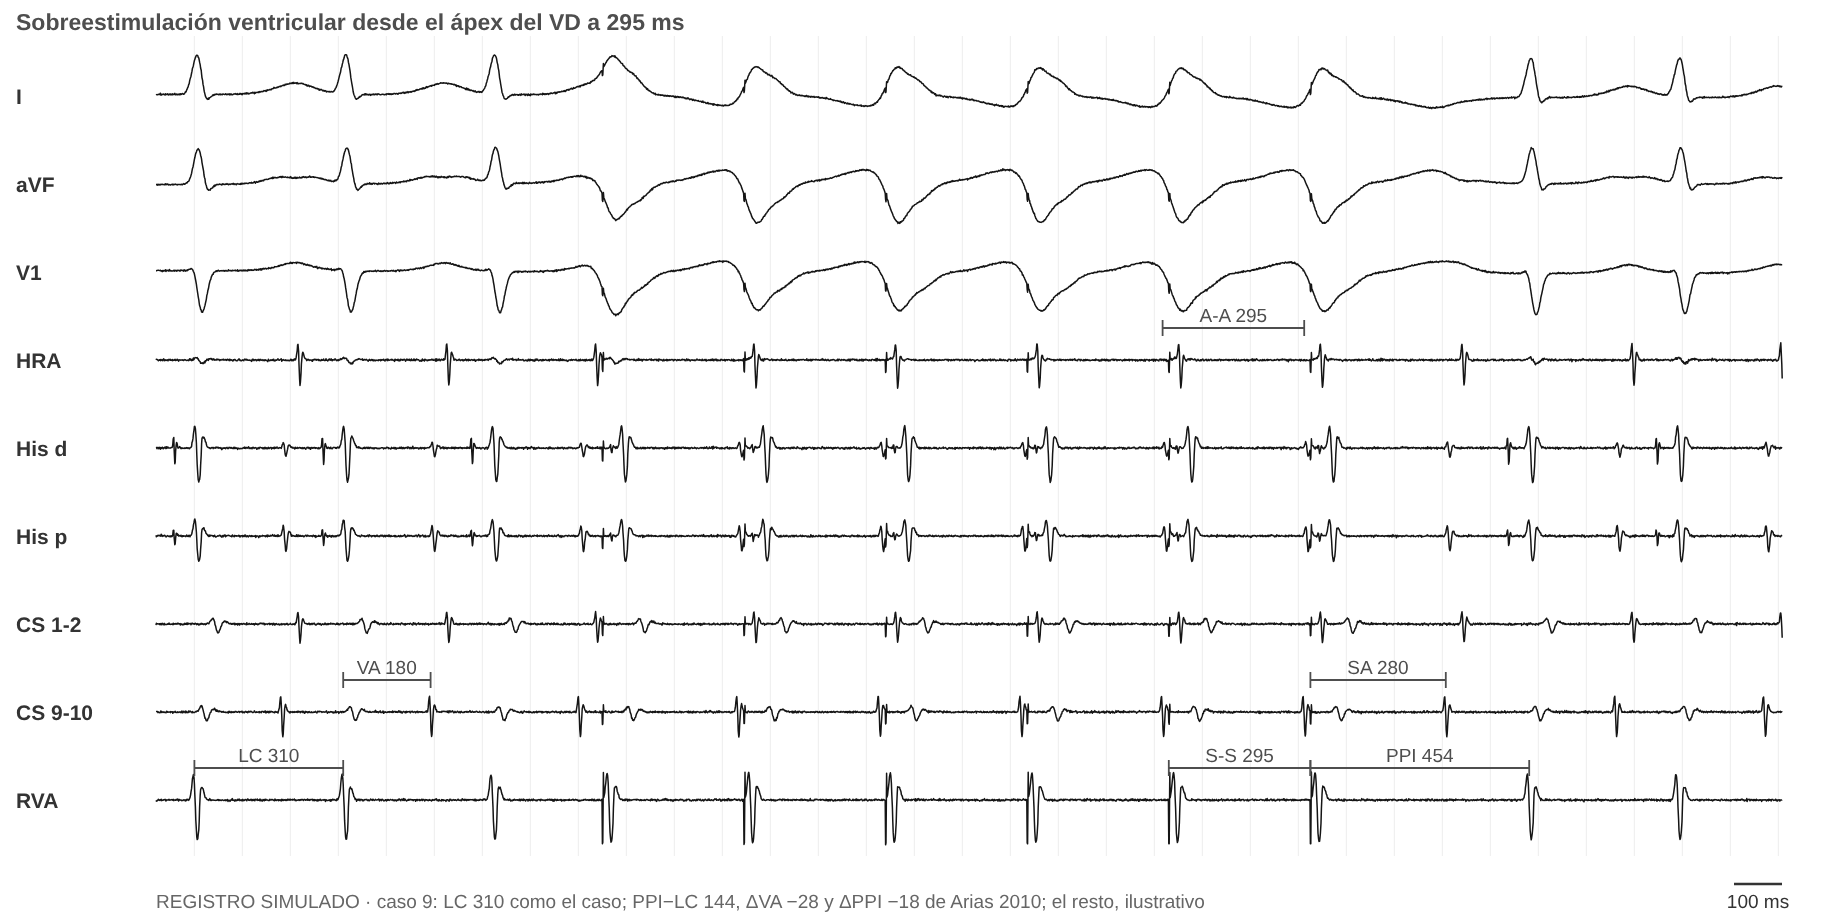
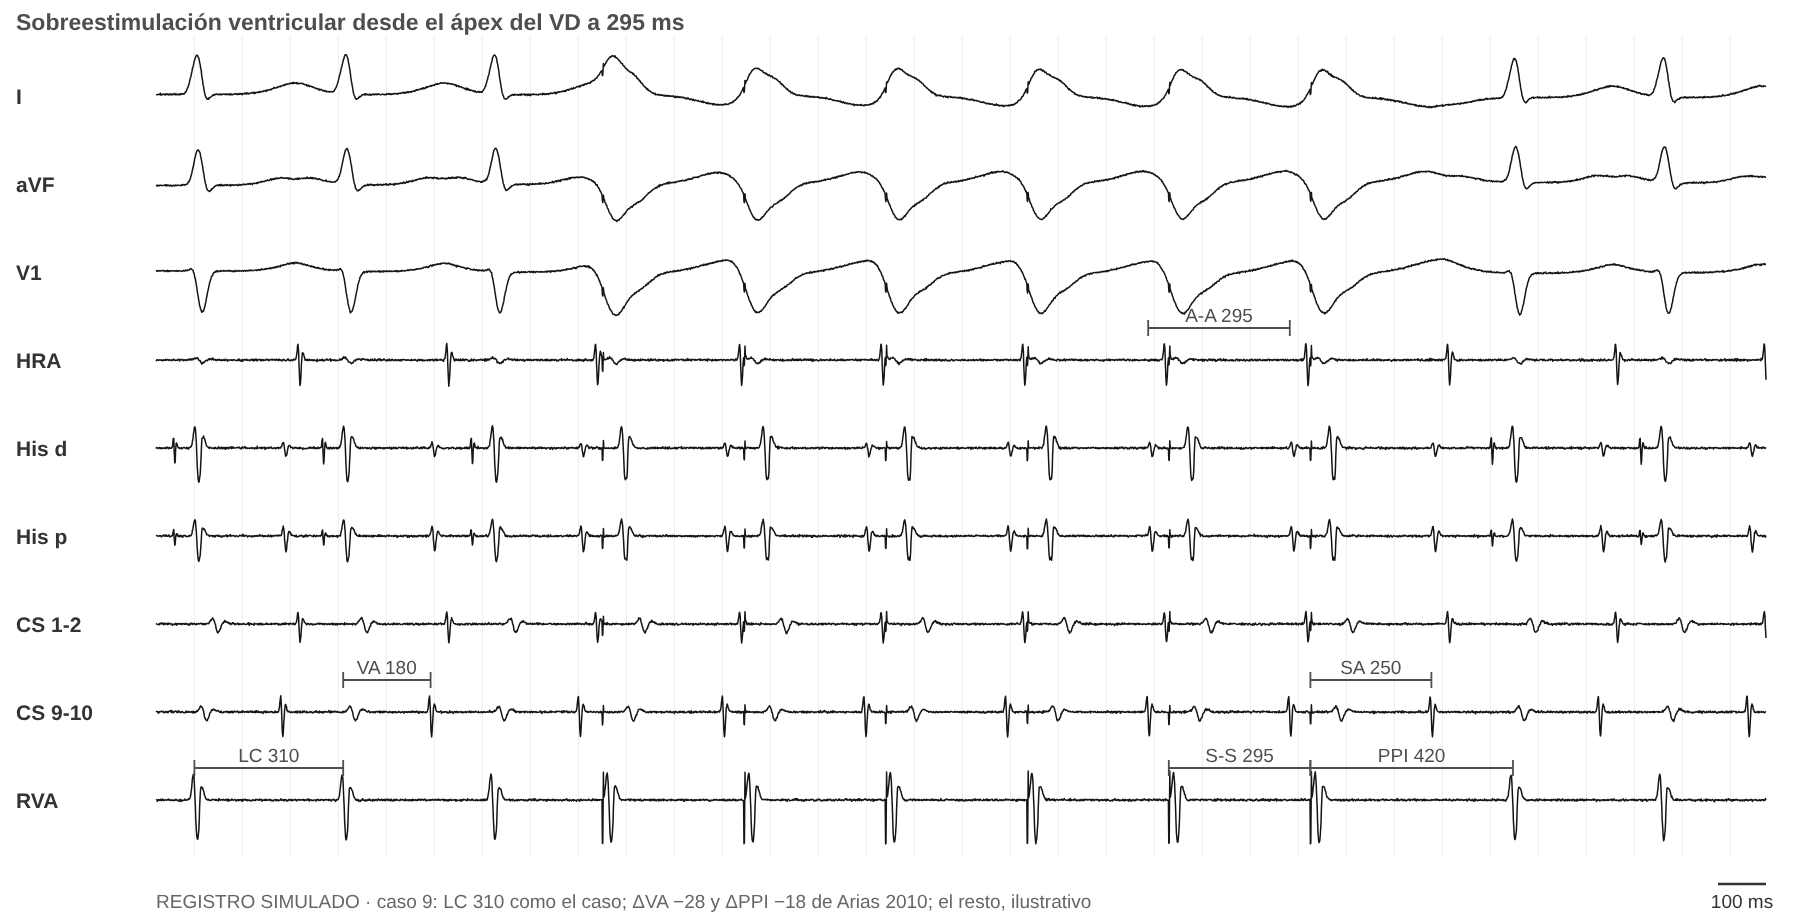
Caso 9: PPI−LC 110 (< 125) y SA−VA 70 (< 85) desde el ápex; las medidas pasan a clave; título sin el diagnóstico
Claude-Session: https://claude.ai/code/session_01Pw5rjt62KK5LeJZoEyFiaM

diff --git a/index.html b/index.html
@@ -313,7 +313,7 @@ dialog::backdrop{background:rgba(0,0,0,.45)}
 
 <div id="visor" hidden role="dialog" aria-label="Imagen ampliada"><div class="vbar"><button type="button" class="vm" aria-label="Achicar">−</button><button type="button" class="vp" aria-label="Agrandar">+</button><button type="button" class="vf">Ajustar</button><button type="button" class="vx">✕ Cerrar</button></div><div class="vbox"><img alt=""></div></div>
 <script>
-const APPV = 162;   // igual al número de CACHE_VERSION de sw.js
+const APPV = 163;   // igual al número de CACHE_VERSION de sw.js
 // ===============================================================================================================
 // Referencias. "propia" = artículo del material base; las demás se citan a través de esas revisiones.
 // ===============================================================================================================
@@ -1387,20 +1387,20 @@ const PCASOS = [
       ado: { v: 'La taquicardia sigue igual (LC 420).', r: 'No depende del nodo AV y no es sensible a la adenosina, a diferencia de la TV focal de Purkinje y la del tracto de salida.', u: 'util', img: 'figs/sim/prac/p8_ado.png' },
       pre: { v: 'Estimulación ventricular en sinusal a 500 y 400 ms.', r: 'SA 140 → 190 (decremental), concéntrica: conducción VA por el nodo, sin vía accesoria.', u: 'util', img: 'figs/sim/prac/p8_pre.png' } },
     dx: ['tvf'], ex: 'Taquicardia de QRS ancho con BRD y eje superior en un corazón sano. La disociación AV y el His después del inicio del QRS indican un origen ventricular, y los QRS angostos al estimular la aurícula excluyen la aberrancia. Es inducible y encarrilable (reentrada); el mapeo muestra P1 y P2 en el septum medio-inferior del VI y el verapamilo alarga la LC y el P1-P2 hasta cortar la taquicardia con un bloqueo entre P1 y P2: TV fascicular posterior.', refs: ['nogami10', 'liuq23', 'liu15'] },
-  { id: 'c9', t: 'TRAV septal que imita una TRNAV atípica', p: 'Varón de 13 años con TSV de RP largo.',
+  { id: 'c9', t: 'TSV de RP largo en un adolescente', p: 'Varón de 13 años con TSV de RP largo.',
     ecg: 'figs/sim/casos/c9_ecg.jpg', ecgReal: true, basal: 'figs/sim/casos/c9_basal.png', ind: 'figs/sim/casos/c9_ind.png', indt: 'Extraestímulo auricular S1-S2 600-300',
     h: ['TSV de QRS angosto, LC 310 ms, relación AV 1:1', 'Protocolo: extraestímulo auricular desde la AD alta, S1-S2 600-300'],
     hk: ['RP largo: VA 180 ms (HA 222) con la A más precoz en el SC proximal. El diferencial es TRNAV atípica, TRAV por una vía septal lenta (PJRT) y TA septal baja.', 'Inducción con extraestímulo auricular sin salto del AH (AH 140 con S2 300): no hay doble fisiología nodal evidente.'],
     m: { ehr: { v: 'EV desde el ápex con el His refractario: la A siguiente se retrasa 20 ms (A-A 330) con la misma secuencia y la taquicardia sigue.', r: 'Con el His refractario la EV solo pudo llegar a la A por una vía; la retrasa porque la vía es decremental (la EV la encuentra en período relativo y conduce más lento). Demuestra una vía decremental que participa en el circuito: PJRT.', u: 'clave', img: 'figs/sim/prac/p9_ehr.png' },
-      diff: { v: 'Encarrilando a 295 ms: desde el ápex SA 280 y PPI 454; desde la base del VD SA 252 y PPI 436 (VA 180). ΔVA (base − ápex) −28 ms; ΔPPI (base − ápex) −18 ms.', r: 'Desde la base el VA y el PPI se acortan (en la TRNAV se alargan más de 20 ms): la base está más cerca de la vía septal. Al comparar dos sitios, el decremento de la vía se cancela.', u: 'clave', img: 'figs/sim/prac/p9_diff.png' },
+      diff: { v: 'Encarrilando a 295 ms: desde el ápex SA 250 y PPI 420; desde la base del VD SA 222 y PPI 402 (VA 180). ΔVA (base − ápex) −28 ms; ΔPPI (base − ápex) −18 ms.', r: 'Desde la base el VA y el PPI se acortan (en la TRNAV se alargan más de 20 ms): la base está más cerca de la vía septal. Al comparar dos sitios, el decremento de la vía se cancela.', u: 'clave', img: 'figs/sim/prac/p9_diff.png' },
       aop: { v: 'Estimulando la AD alta a 290 ms los V se aceleran a 290 (V-V 290; en la TSV, 310) con AH 100 (en la TSV, 88). Al cortar, el VA del primer latido es 180 ms, igual al de la TSV.', r: 'VA linking: excluye la TA. ΔAH (estimulando − TSV) 12 ms < 20: la aurícula forma parte del circuito; en contra de la TRNAV atípica.', u: 'clave', img: 'figs/sim/prac/p9_aop.png' },
       vop: { v: 'Estimulando el ápex del VD a 295 ms las A se aceleran a 295 con la misma secuencia. Al cortar, el primer electrograma que sigue a la última A es un V (secuencia A-V).', r: 'Respuesta A-V: excluye la TA.', u: 'clave', img: 'figs/sim/prac/p9_vop.png' },
-      medidas: { v: 'PPI 454 ms con LC 310 (PPI−LC 144). SA 280 ms con VA 180 (SA−VA 100). HA 222 en la TSV y 262 estimulando (ΔHA +40).', r: 'Engañosa: los tres valores caen en rango de TRNAV, incluso con el corte de 125 ms que se usa para el PPI−LC en las taquicardias de RP largo (SA−VA > 85, ΔHA > −10). La vía septal es lenta y decremental: al estimular conduce más despacio y alarga el SA, el PPI y el HA.', u: 'trampa', img: 'figs/sim/prac/p9_medidas.png' },
+      medidas: { v: 'PPI 420 ms con LC 310 (PPI−LC 110). SA 250 ms con VA 180 (SA−VA 70). HA 222 en la TSV y 200 estimulando (ΔHA −22).', r: 'PPI−LC < 125 (el corte para las taquicardias de RP largo) y SA−VA < 85: el ventrículo está en el circuito. ΔHA < −10: estimulando, His y A se activan en paralelo. Las tres apuntan a TRAV y excluyen la TRNAV atípica.', u: 'clave', img: 'figs/sim/prac/p9_medidas.png' },
       parahis: { v: 'En sinusal, con captura del His: SA 120 y QRS 95. Solo V: SA 170 y QRS 150. Misma secuencia auricular.', r: 'Engañosa: respuesta nodal porque la vía decremental conduce más lento que el nodo y no se ve.', u: 'trampa', img: 'figs/sim/prac/p9_parahis.png' },
       ado: { v: 'La taquicardia termina: el último latido es un V que no conduce a la A.', r: 'Engañosa: la terminación con un V sugiere bloqueo en la vía lenta retrógrada (TRNAV atípica), pero las vías decrementales también son sensibles a la adenosina.', u: 'trampa', img: 'figs/sim/prac/p9_ado.png' },
       pre: { v: 'Estimulación ventricular en sinusal a 500 y 400 ms.', r: 'SA 150 a 500 y 190 a 400 (decremental), con la A más precoz en el SC proximal: compatible con el nodo o con una vía decremental.', u: 'util', img: 'figs/sim/prac/p9_pre.png' },
       eha: { v: 'EA desde el ostium del SC con el His refractario: el His siguiente sale a su tiempo (H-H 310).', r: 'No modifica el His: esperable en la TRAV (el EA no puede bajar por el nodo refractario).', u: 'util', img: 'figs/sim/prac/p9_eha.png' } },
-    dx: ['pjrt', 'trav_s'], ex: 'La respuesta A-V y el VA linking descartan la TA, y el ΔAH de 12 ms ubica la aurícula en el circuito. Los cortes de PPI−LC, SA−VA y ΔHA se validaron sobre todo con vías rápidas: una vía septal lenta y decremental se enlentece al estimular, alarga esos intervalos y hace que la TRAV parezca una TRNAV atípica. Las maniobras que no dependen del decremento desempatan: la EV con His refractario que retrasa la A demuestra una vía decremental, y el encarrilamiento diferencial (ΔVA −28, ΔPPI −18) la ubica en el circuito. Es una TRAV por vía septal lenta y decremental (tipo PJRT). Mensaje: en una TSV de RP largo, antes de ablacionar una "TRNAV atípica", confirmar que una EV con His refractario no modifique (adelante o retrase) la A.', refs: ['arias10', 'bennett11', 'segal09'] },
+    dx: ['pjrt', 'trav_s'], ex: 'La respuesta A-V y el VA linking descartan la TA, y el ΔAH de 12 ms ubica la aurícula en el circuito. Desde el ápex, PPI−LC 110 (< 125, el corte para el RP largo), SA−VA 70 y ΔHA −22 ponen al ventrículo en el circuito, y el encarrilamiento diferencial (ΔVA −28, ΔPPI −18) ubica la vía cerca de la base. La EV con His refractario que retrasa la A demuestra una vía decremental que participa. La para-Hisiana, la adenosina y la conducción VA decremental parecen nodales porque la vía es decremental. Es una TRAV por vía septal lenta y decremental (tipo PJRT). Mensaje: en una TSV de RP largo, antes de ablacionar una "TRNAV atípica", confirmar que una EV con His refractario no modifique (adelante o retrase) la A.', refs: ['arias10', 'bennett11', 'segal09'] },
   { id: 'c10', t: 'TSV con bloqueo VA tipo Wenckebach', p: 'Varón de 40 años con TSV. Se induce una sola taquicardia.',
     ecg: 'figs/sim/casos/c10_ecg.png', basal: 'figs/sim/casos/c10_basal.png', ind: 'figs/sim/casos/c10_ind.png',
     h: ['TSV de QRS angosto, LC 390 ms', 'Bloqueo VA tipo Wenckebach con taquicardia que sigue (más V que A)', 'El HH se mantiene estable a pesar del bloqueo VA'],

diff --git a/sw.js b/sw.js
@@ -1,6 +1,6 @@
 // Permite instalar la app y abrirla sin conexión. Primero la red (siempre lo último publicado); si no hay, la copia.
 // Si cambiás un archivo, subí CACHE_VERSION.
-const CACHE_VERSION = 'mef-v162';
+const CACHE_VERSION = 'mef-v163';
 const ARCHIVOS = ['./', './index.html', './manifest.json', './iconos/icon-192.png', './iconos/icon-512.png'];
 self.addEventListener('install', e => e.waitUntil(caches.open(CACHE_VERSION).then(c => c.addAll(ARCHIVOS)).then(() => self.skipWaiting())));
 self.addEventListener('activate', e => e.waitUntil(caches.keys().then(ks => Promise.all(ks.filter(k => k !== CACHE_VERSION).map(k => caches.delete(k)))).then(() => self.clients.claim())));

diff --git a/herramientas/simulador/cases6.py b/herramientas/simulador/cases6.py
@@ -948,9 +948,9 @@ S['p8_verapamilo_b'] = verap8('B. Verapamilo IV', [0, 440, 460, 480, 500], [120,
 
 # =====================================================================================================
 # Caso 9 (TRAV por vía septal lenta y decremental que imita una TRNAV atípica; LC 310 como el ECG real, VA 180, HV 42, AH 88).
-# Arias 2010: desde el ápex PPI−LC 144; base − ápex: ΔVA −28 y ΔcPPI−LC −18. SA−VA 100 y ΔHA +40, ilustrativos.
-SRC9 = 'caso 9: LC 310 como el caso; PPI−LC 144, ΔVA −28 y ΔPPI −18 de Arias 2010; el resto, ilustrativo'
-LC9, VA9, HV9, AH9, SC9, SA9, PPI9, HAp9 = 310, 180, 42, 88, 295, 280, 454, 262
+# Base − ápex ΔVA −28 y ΔPPI −18 de Arias 2010. Desde el ápex PPI−LC 110 (< 125, corte del RP largo), SA−VA 70 y ΔHA −22, ilustrativos.
+SRC9 = 'caso 9: LC 310 como el caso; ΔVA −28 y ΔPPI −18 de Arias 2010; el resto, ilustrativo'
+LC9, VA9, HV9, AH9, SC9, SA9, PPI9, HAp9 = 310, 180, 42, 88, 295, 250, 420, 200
 
 
 def vop9(title, med):
@@ -966,7 +966,7 @@ def vop9(title, med):
         cal = [c for c in cal if not c[3].startswith(('S-S', 'A-A'))]
         cal += [(svt[1] - HV9, svt[1] + VA9, 'His p', f'HA {HV9 + VA9}'), (A[-1] - HAp9, A[-1], 'His p', f'HA {HAp9}')]
         marks = [(sp[-1] + 160, 'I', f'SA − VA = {SA9} − {VA9} = {SA9 - VA9} ms'), (sp[-1] + 160, 'aVF', f'PPI − LC = {PPI9} − {LC9} = {PPI9 - LC9} ms'),
-                 (sp[-1] + 160, 'V1', f'ΔHA = {HAp9} − {HV9 + VA9} = +{HAp9 - HV9 - VA9} ms')]
+                 (sp[-1] + 160, 'V1', f'ΔHA = {HAp9} − {HV9 + VA9} = −{HV9 + VA9 - HAp9} ms')]
     return dict(win=(-80, after[-1] + 220), pxms=0.24, title=title, channels=CH6, src=SRC9,
         beats=[(v, 'n') for v in svt + after] + [(s, 'pa') for s in sp], spikes=sp,
         atr=[(a, 'conc_cs', -1) for a in A + [v + VA9 for v in after]],
@@ -990,8 +990,8 @@ def diff9(sa, ppi, typ, title):
              (sp[-1], ret + 2, 'RVA', f'PPI {ppi}')])
 
 
-S['p9_diff_a'] = diff9(280, 454, 'pa', 'A. Encarrilamiento desde el ápex del VD (295 ms)')
-S['p9_diff_b'] = diff9(252, 436, 'pb', 'B. Encarrilamiento desde la base del VD (295 ms)')
+S['p9_diff_a'] = diff9(250, 420, 'pa', 'A. Encarrilamiento desde el ápex del VD (295 ms)')
+S['p9_diff_b'] = diff9(222, 402, 'pb', 'B. Encarrilamiento desde la base del VD (295 ms)')
 
 # EV con His refractario: por el decremento de la vía, retrasa la A siguiente 20 ms, misma secuencia, la taquicardia sigue.
 k = 3
